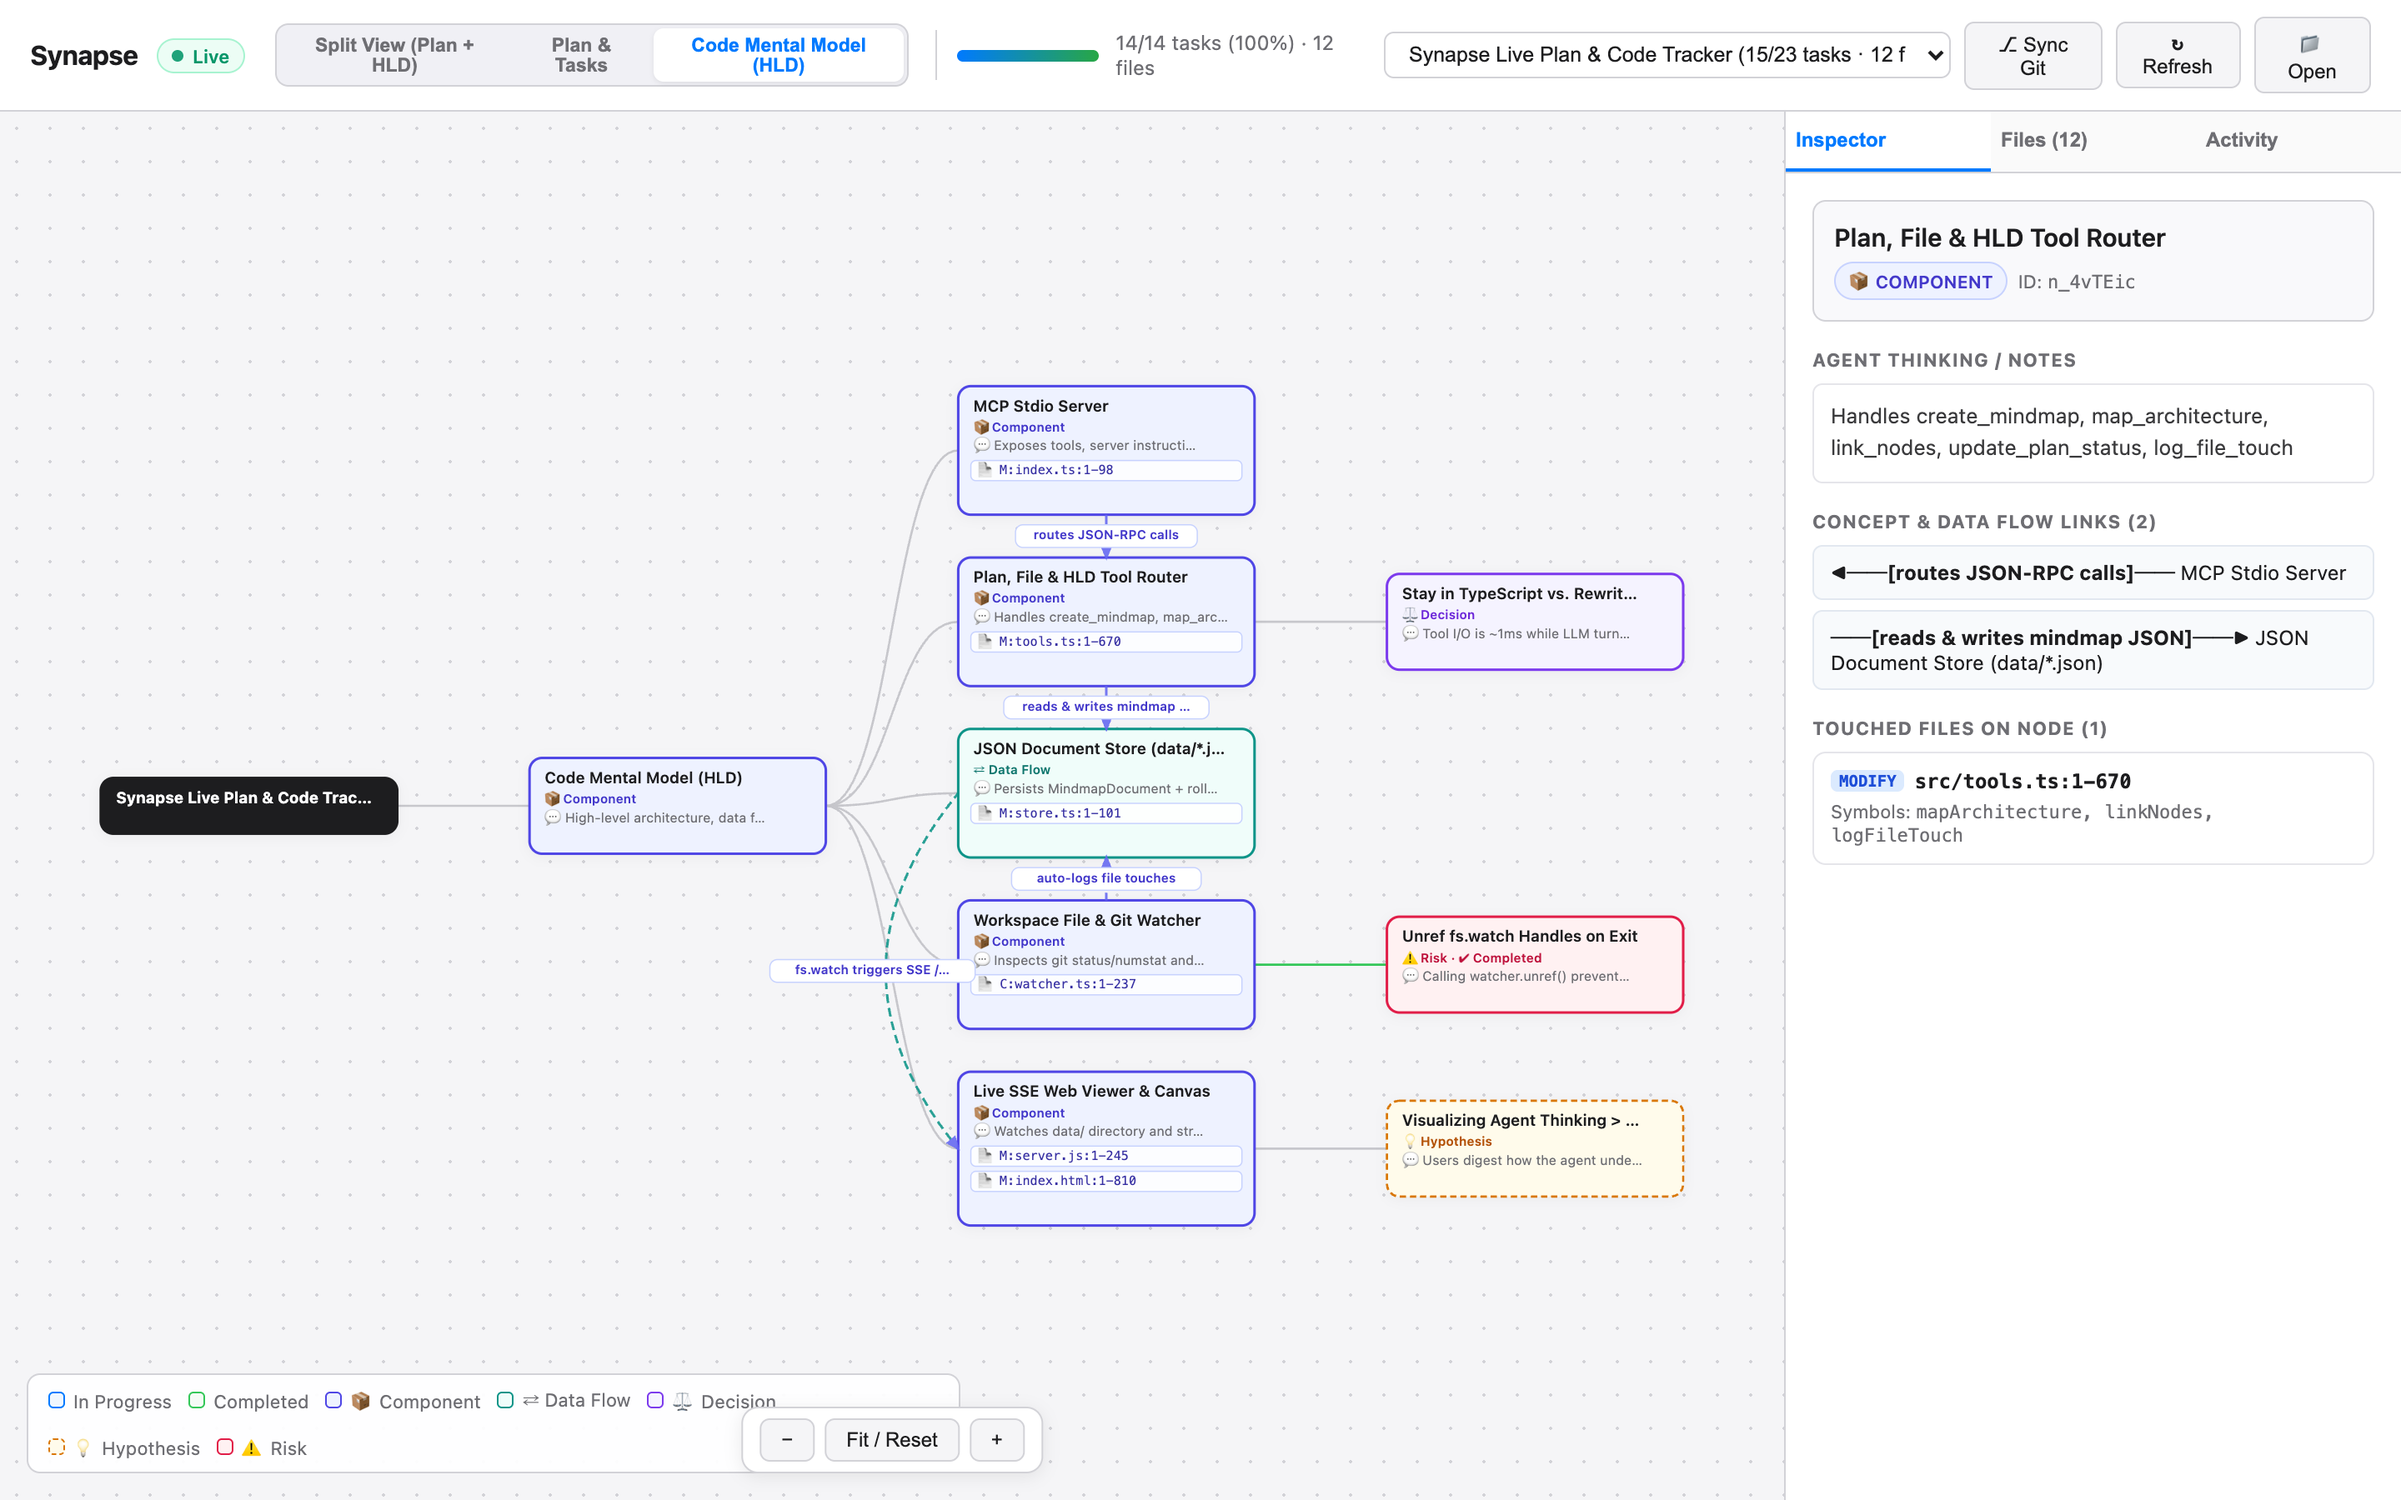
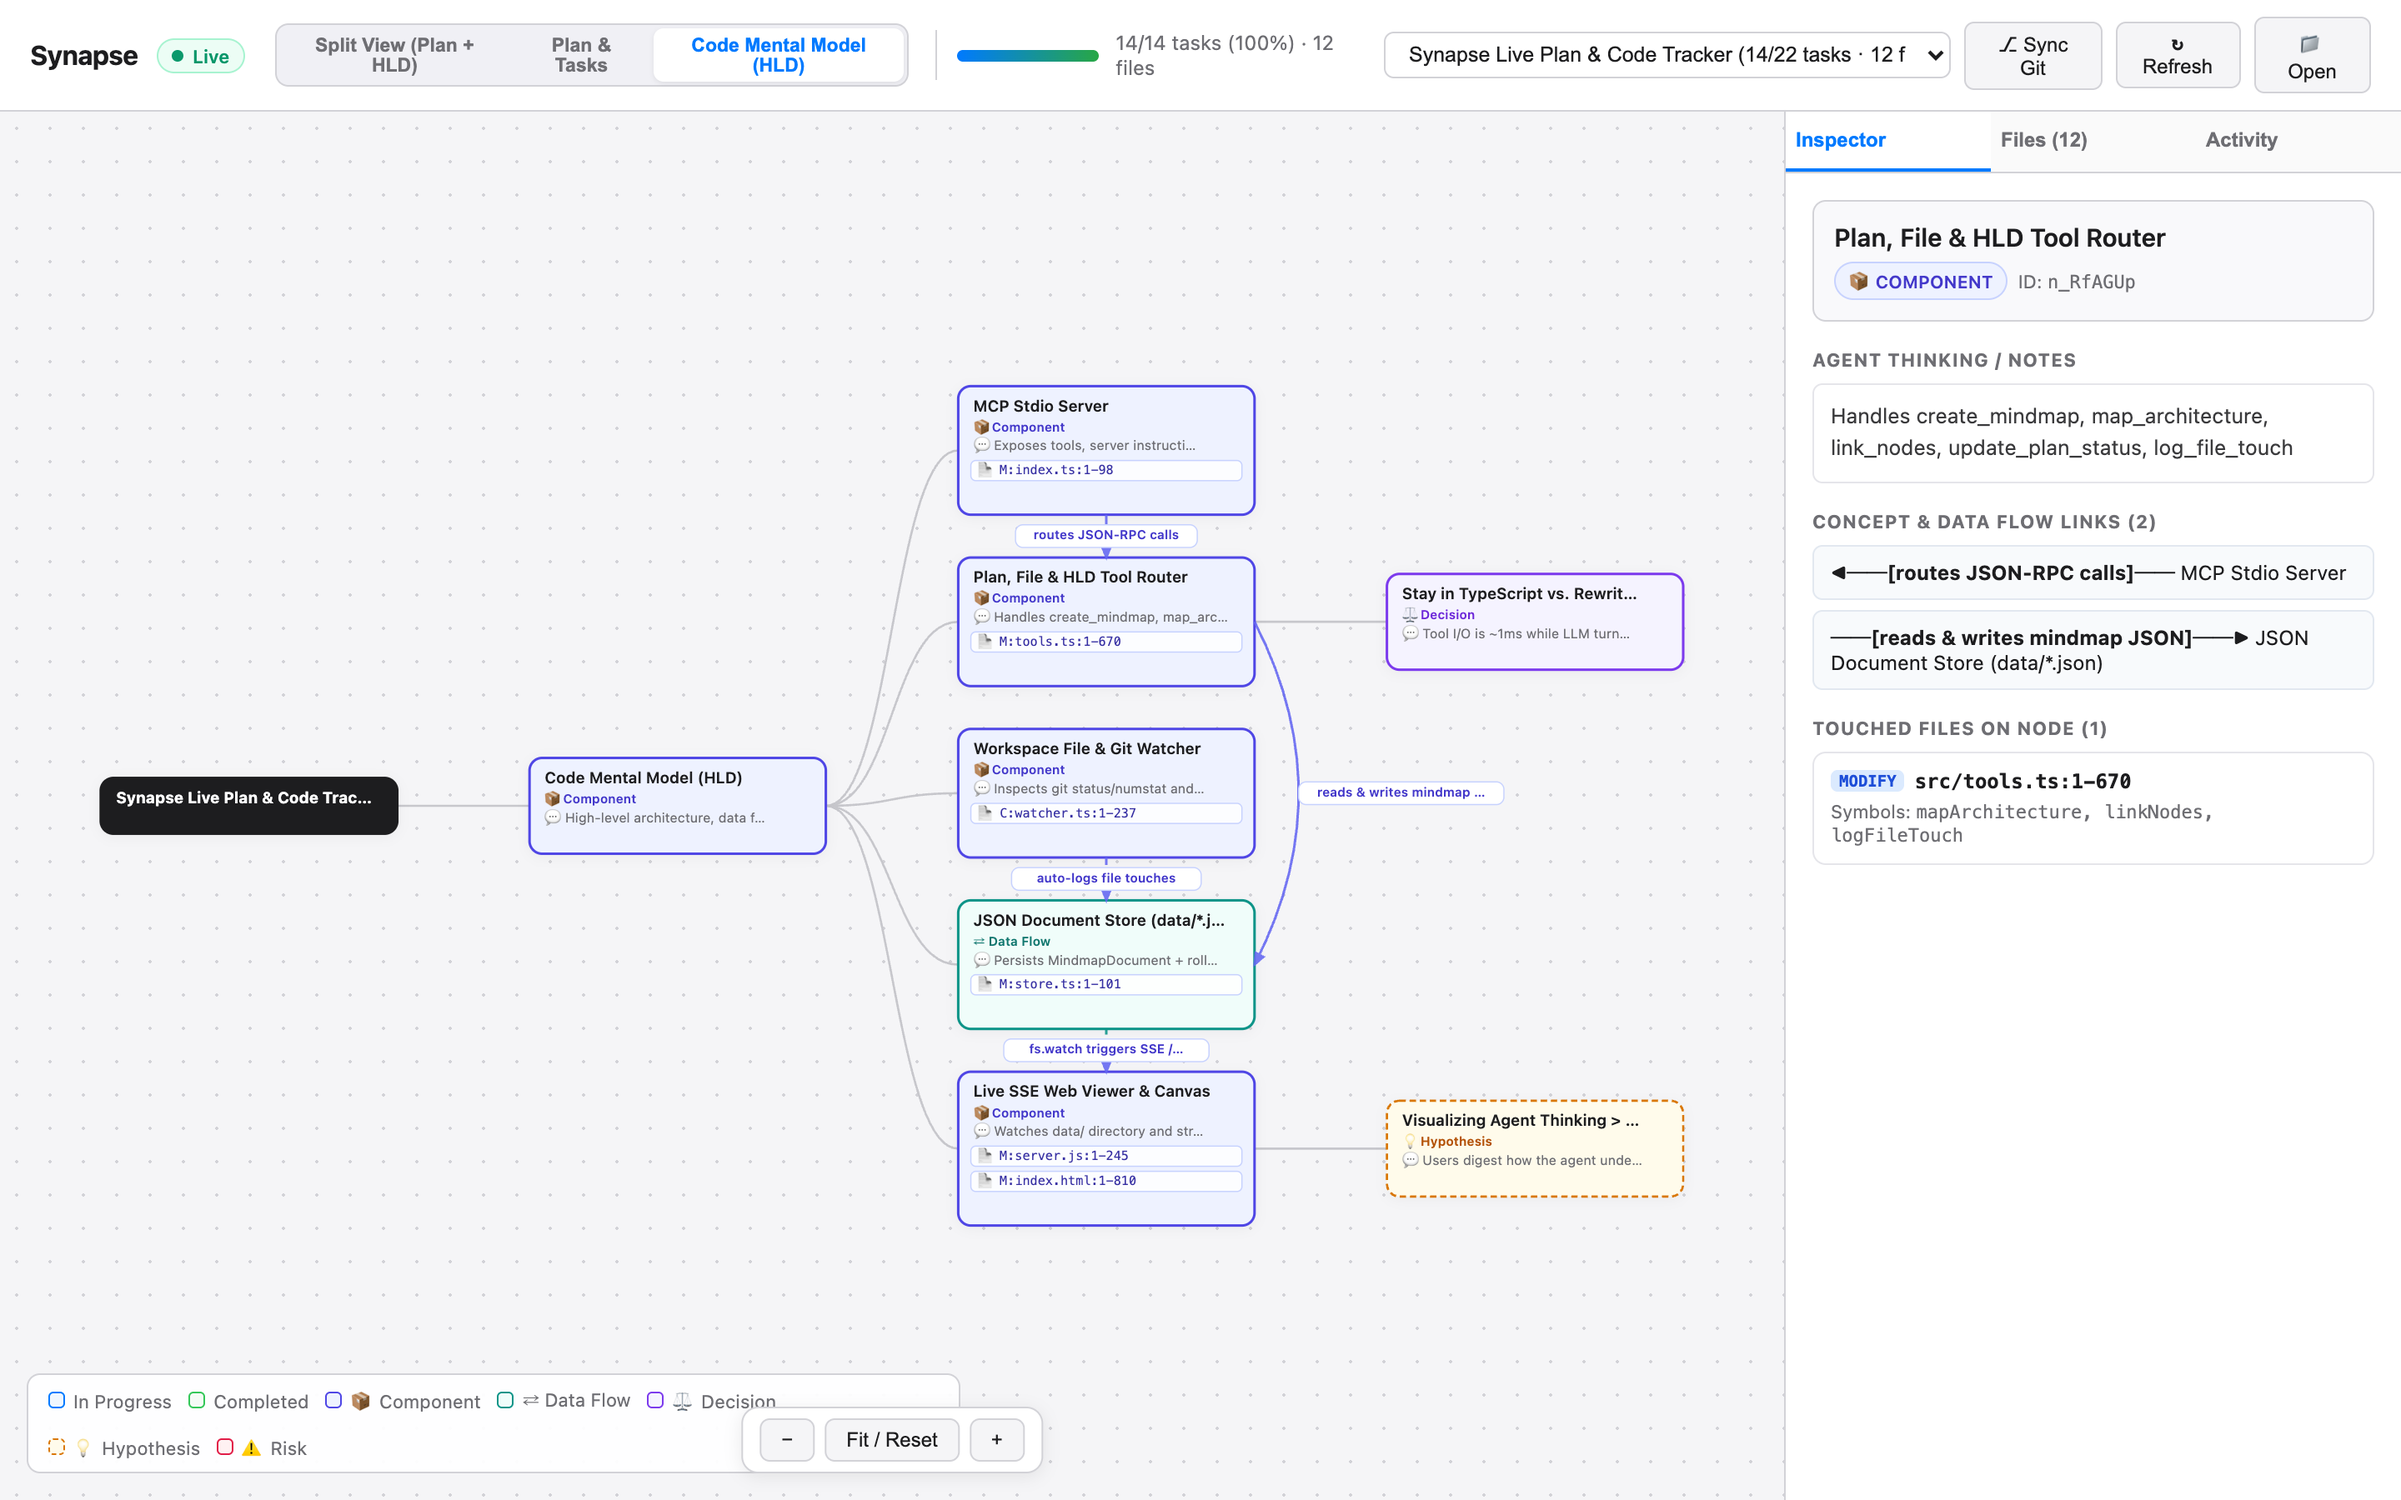
fix(viewer): remove sample risk block from HLD view and route bypass flow arrows along right gutter

diff --git a/viewer/index.html b/viewer/index.html
@@ -979,17 +979,20 @@ function render(doc) {
     const verticalDist = Math.abs(pTo.y - pFrom.y);
     const skipsIntermediateCard = sameColumn && verticalDist > (pFrom.h + pTo.h) / 2 + 45;
 
+    const lbl = truncate(link.label, 24);
+    const pillW = Math.max(54, lbl.length * 6.2 + 14);
+
     let x1, y1, x2, y2, cx, cy, mx, my;
 
     if (skipsIntermediateCard) {
-      // Route cleanly along the left gutter of the column so it never crosses over intermediate sibling cards
-      x1 = pFrom.x + OFX;
+      // Route cleanly along the right gutter of the column so it never crosses over tree edges or sibling cards
+      x1 = pFrom.x + OFX + pFrom.w;
       y1 = pFrom.y + OFY;
-      x2 = pTo.x + OFX;
+      x2 = pTo.x + OFX + pTo.w;
       y2 = pTo.y + OFY;
-      cx = x1 - 115;
+      cx = x1 + 70;
       cy = (y1 + y2) / 2;
-      mx = x1 - 68;
+      mx = x1 + 35 + pillW / 2;
       my = cy;
     } else if (sameColumn) {
       // Adjacent cards in the same column: connect bottom-center to top-center
@@ -1021,8 +1024,6 @@ function render(doc) {
       <path class="flow-link ${escXml(styleCls)}" marker-end="url(#flow-arrow)" d="M${x1},${y1} Q${cx},${cy} ${x2},${y2}"/>
     `;
 
-    const lbl = truncate(link.label, 24);
-    const pillW = Math.max(54, lbl.length * 6.2 + 14);
     flowLinksSvg += `
       <g>
         <rect class="flow-label-bg" x="${mx - pillW / 2}" y="${my - 9}" width="${pillW}" height="18"/>
